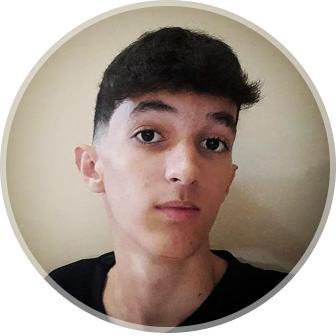
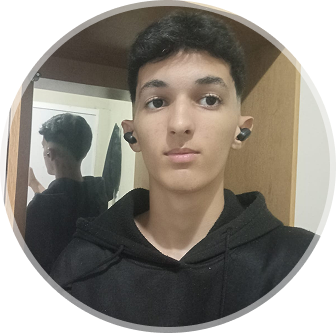
change background color and images

diff --git a/style.css b/style.css
@@ -7,22 +7,27 @@
 
 :root {
   --text-color: white;
-  --bg-url: url(./assets/bg-mobile.jpg);
+  /* --bg-url: url(./assets/bg-mobile.jpg); */
   --stroke-color:rgba(255,255,255, 0.5);
   --surface-color: rgba(255,255,255, 0.05);
   --surface-color-hover: rgba(0,0,0, 0.02);
   --highlight-color: rgba(255,255,255, 0.2);
   --switch-bg-url: url(./assets/moon-stars.svg);
+  --switch-background-color: rgb(0, 0, 0);
+
+  background-color: rgba(0, 0, 0, 0.89);
 }
 
 .light {
   --text-color: black;
-  --bg-url: url(./assets/bg-mobile-light.jpg);
+  /* --bg-url: url(./assets/bg-mobile-light.jpg); */
   --stroke-color: rgba(0,0,0, 0.5);
   --surface-color: rgba(0,0,0, 0.05);
   --surface-color-hover: rgba(0,0,0, 0.02);
   --highlight-color: rgba(0,0,0, 0.1);
   --switch-bg-url: url(./assets/sun.svg);
+
+  background-color: rgba(0, 0, 0, 0.13);
 }
 
 /* corpo */
@@ -173,7 +178,7 @@ footer {
 
 /* media queries*/
 
-@media (min-width: 700px) {
+/* @media (min-width: 700px) {
   :root {
     --bg-url: url(./assets/bg-desktop.jpg);
   }
@@ -181,7 +186,8 @@ footer {
   .light {
     --bg-url: url(./assets/bg-desktop-light.jpg)
   }
-}
+} 
+  */
 
 /* animation */
 @keyframes slide-in {
